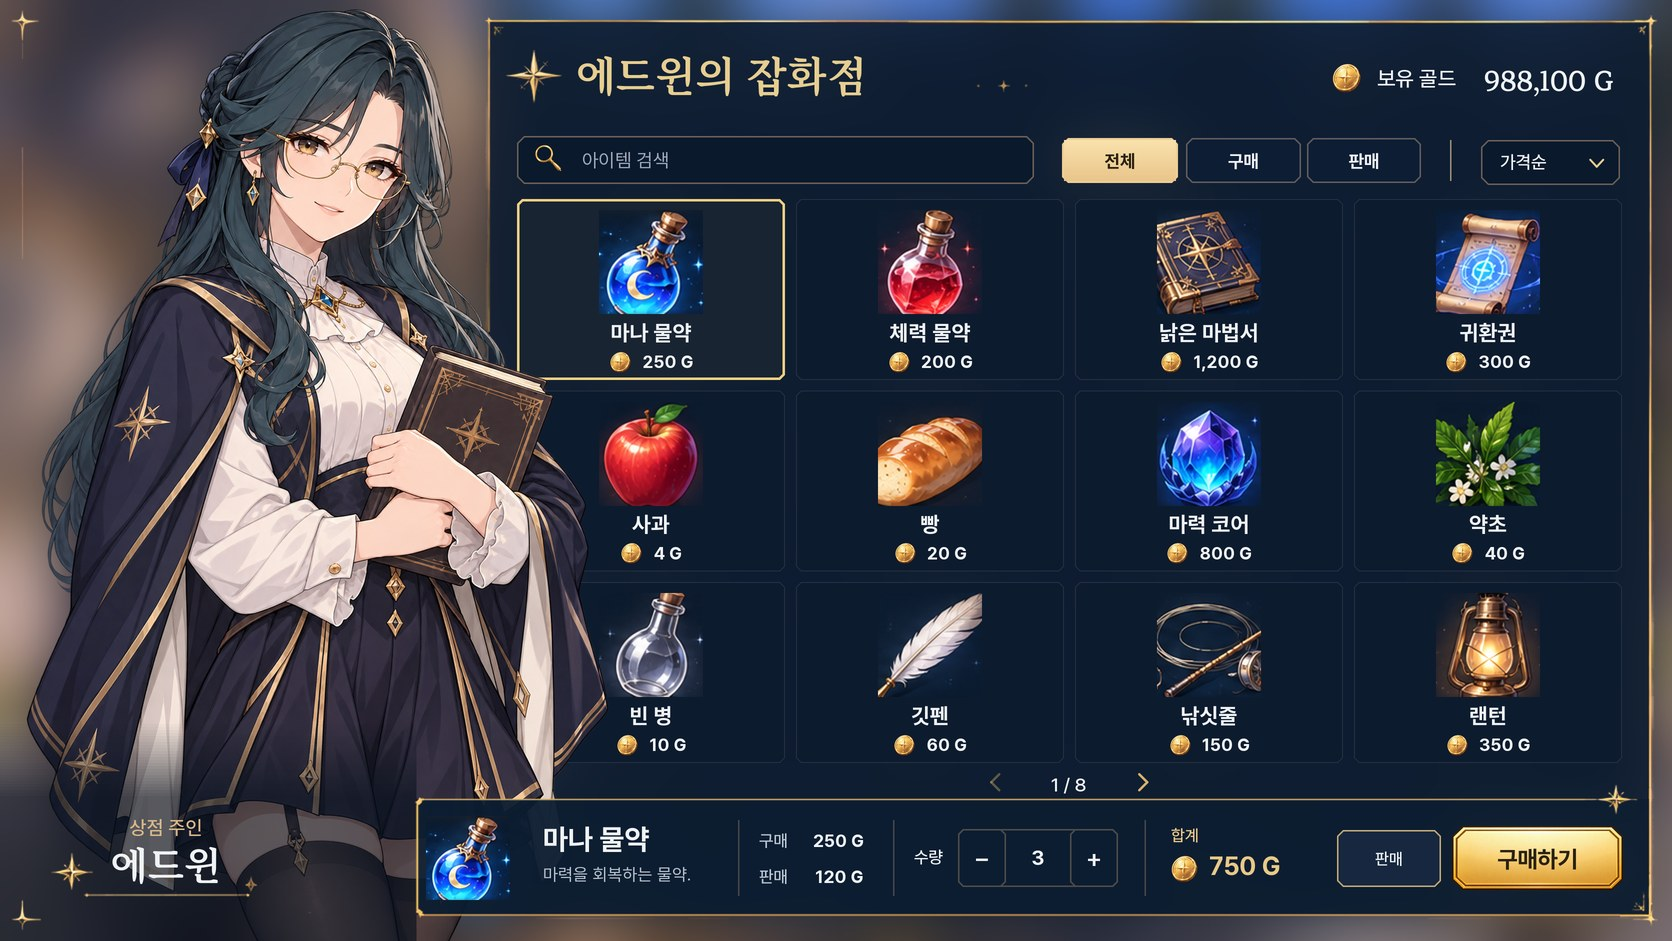
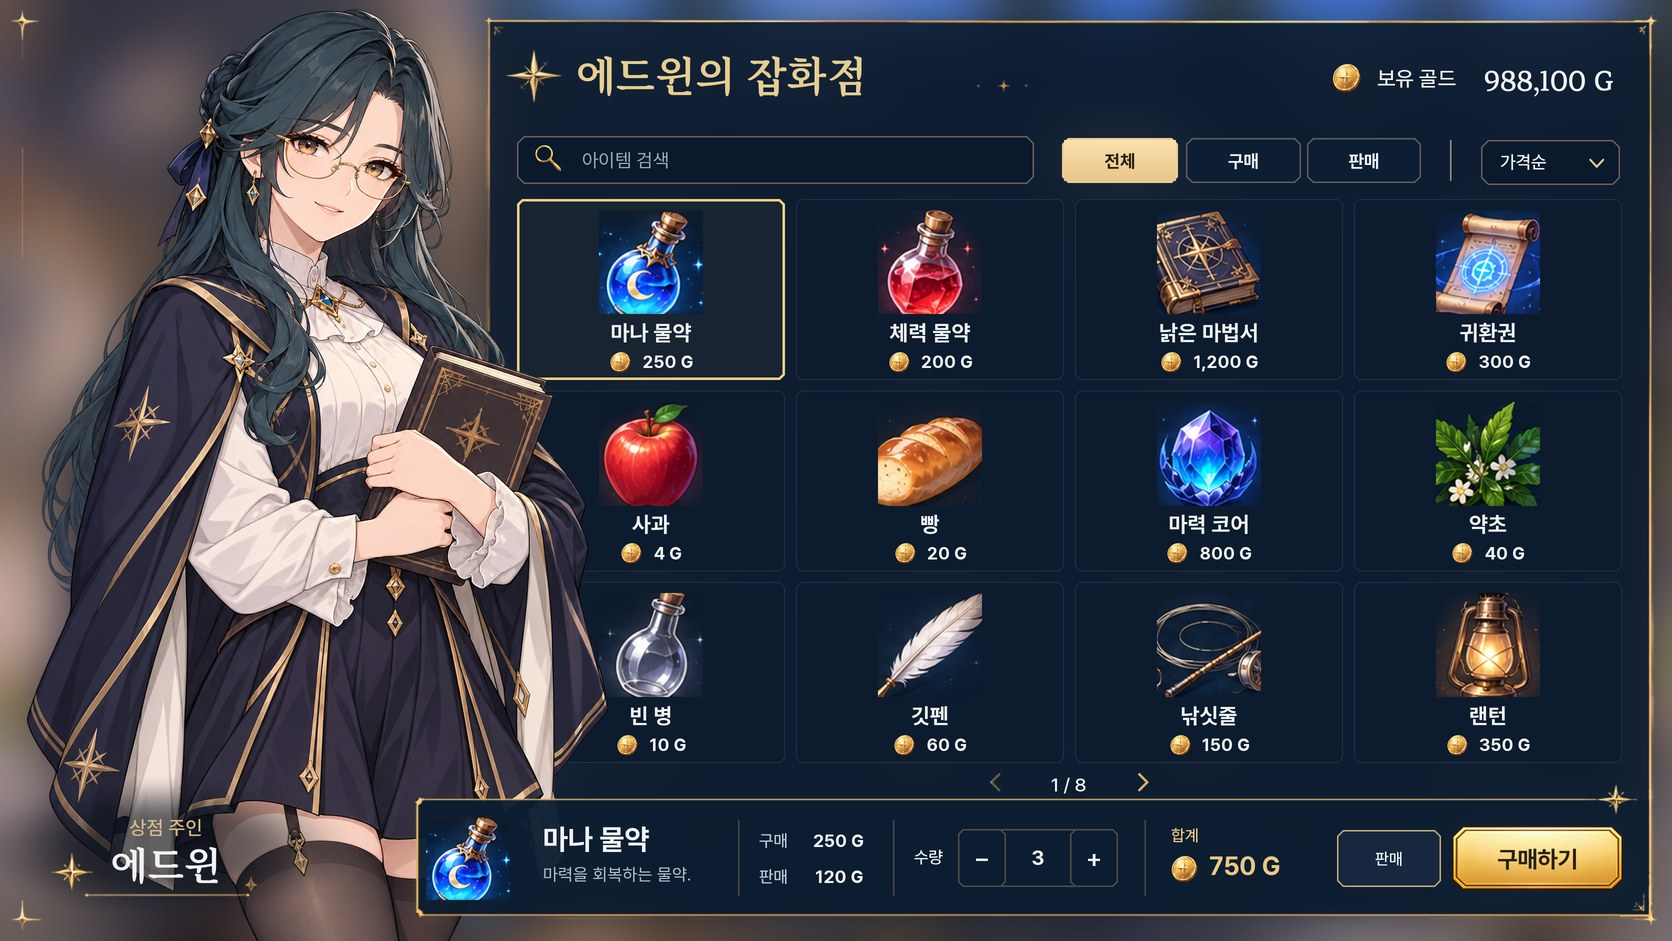
상점 v3 6차: 이름 뒤 어두운 띠를 이름 부분만 가리는 부드러운 타원 그림자로
Claude-Session: https://claude.ai/code/session_01C6Qo7jp46mG7XPa1vTVLAz

Changed region(s): [[0.0, 0.7705, 0.2488, 1.0]]

diff --git a/magic-codex-fabric/src/main/java/school/magiccodex/client/ShopView.java b/magic-codex-fabric/src/main/java/school/magiccodex/client/ShopView.java
@@ -109,7 +109,7 @@ final class ShopView {
             SUM_LABEL_X = 1171, SUM_LABEL_CY = 835, SUM_COIN_X = 1182, SUM_X = 1209, SUM_CY = 866, SUM_MAX = 120,
             SWITCH_X = 1337, SWITCH_Y = 830, SWITCH_W = 104, SWITCH_H = 57, TRADE_X = 1452, TRADE_Y = 826, TRADE_W = 171, TRADE_H = 64;
     // illustration and the role / name label (mockup: portrait at x≈-3, full screen height)
-    static final float NAME_BAND_Y = 796, NPC_X = -3, NPC_H = 942, ROLE_CX = 166, ROLE_CY = 827.5f, NAME_CX = 166, NAME_CY = 865.5f;
+    static final float NPC_X = -3, NPC_H = 942, ROLE_CX = 166, ROLE_CY = 827.5f, NAME_CX = 166, NAME_CY = 865.5f;
 
     static float cardX(int slot) { return CARD_X0 + (slot % COLS) * CARD_PITCH_X; }
     static float cardY(int slot) { return CARD_Y0 + (slot / COLS) * CARD_PITCH_Y; }
@@ -225,9 +225,8 @@ final class ShopView {
             c.portrait(NPC_X, Math.max(H, m.screenBottom()) - h, w, h);
         }
 
-        // soft dark band behind the role / name (fades in from above)
-        for (int i = 0; i < 24; i++) c.fill(0, NAME_BAND_Y - 72 + i * 3, FOOT_L, 3, (Math.round((i + 1) * 0xA8 / 25f)) << 24 | 0x08111E);
-        c.fill(0, NAME_BAND_Y, FOOT_L, H - NAME_BAND_Y, 0xA808111E);
+        // soft dark shade only behind the role / name (oval, fades out on every side)
+        c.image(ROOT + "shop_name_shade.png", NAME_CX - 200, (ROLE_CY + NAME_CY) / 2 - 75, 400, 150, 0, 0, 400, 150, 400, 150);
         // footer bar over the illustration, then the mockup's own thin lines and stars on top
         c.fill(FOOT_L, FOOT_T, PANEL_R - FOOT_L, FOOT_B - FOOT_T, FOOTER);
         c.image(ROOT + "shop_deco_front.png", 0, 0, W, H, 0, 0, W, H, W, H);

diff --git a/docs/handoff/CLAUDE_SHOP_V3_20261024.md b/docs/handoff/CLAUDE_SHOP_V3_20261024.md
@@ -169,3 +169,10 @@ The overlay check against reference.png is in `docs/handoff/img/shop/compare_v3.
 - **The footer bar is back at x416.5** (the mockup's box). The footer icon and name are back at the measured spots: icon centre x468, text x543, width 186.
 - **The dark band** behind the role / name is kept. Its fade is now 24 steps of 3px, so it has no visible bands.
 - Everything else is unchanged, including the remaining runtime geometry from the README (cards, fields, tabs, stepper, switch, dividers, arrows).
+
+## 9. 6th pass — the shade behind the name covers only the name, as in the mockup
+
+- The full-width dark band is replaced by **`textures/gui/shop/v3/shop_name_shade.png`**.
+  - It is a 400×150 soft oval: colour `#080E18`, alpha up to 0.62, fading out on every side (smoothstep from 35% of the radius).
+  - It is centred on the role / name: x NAME_CX ± 200, y around the midpoint of ROLE_CY and NAME_CY.
+- Nothing else changed.
